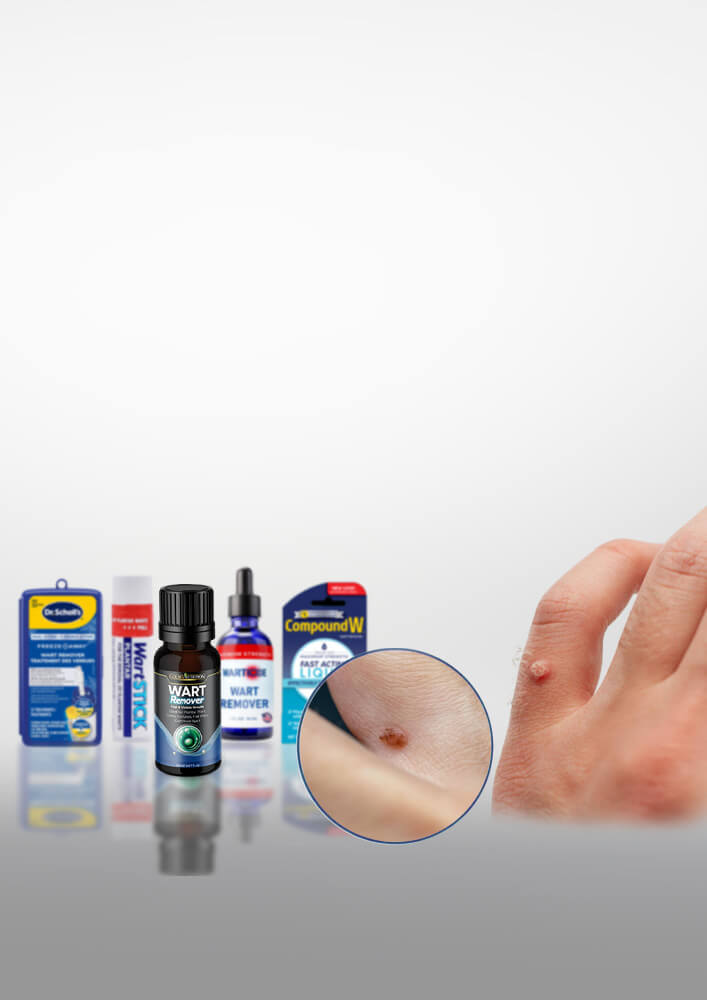
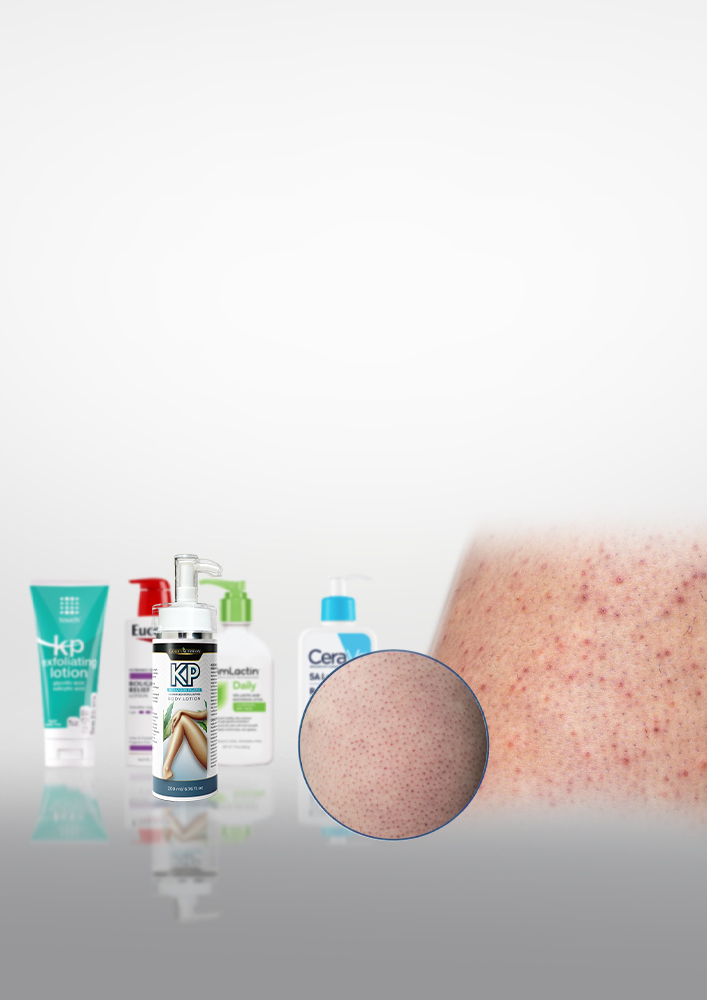
add the kp text and illustration

Changed region(s): [[0.0, 0.496, 1.0, 0.899]]

diff --git a/src/components/main/articleHeader/articleHeader.jsx b/src/components/main/articleHeader/articleHeader.jsx
@@ -22,13 +22,13 @@ const ArticleHeader = () => {
                 </Grid2>
                 <Grid2 xs={12} md={6} lg={5.3} sx={{ textAlign: { xs: "center", md: "left" }, paddingX: { xs: 3, md: 0 }, display: 'flex', alignItems: "center" }} >
                     <Box>
-                        <Typography fontFamily={"Oswald"} fontSize={32} fontWeight={700}>Top 5 Most Effective and Strongest Wart Removers of {myYear}</Typography>
+                        <Typography fontFamily={"Oswald"} fontSize={32} fontWeight={700}>Top 5 Most Effective Keratosis Pilaris Treatments of {myYear}</Typography>
                         <Typography fontSize={14} fontFamily={"Open Sans"} color={"#007BFF"}>Last updated on {myMonth} {myYear}</Typography>
                     </Box>
                 </Grid2>
                 <Grid2 xs={12} md={5} lg={3.3} sx={{ paddingX: "10px", display: { xs: "none", md: "block" } }}>
                     <Box>
-                        <QualityCard topic={` ${myYear}'s Top Rated Wart Remover Solution`} subTopic='Golden Nutrition Wart Remover' />
+                        <QualityCard topic={` ${myYear}'s Keratosis Pilaris Treatments`} subTopic='Golden Nutrition Keratosis Pilaris Lotion' />
                         <ProgressBar />
                     </Box>
 
@@ -45,17 +45,15 @@ const ArticleHeader = () => {
                 </Grid2>
                 <Grid2 xs={11} md={11} lg={8.4} sx={{ m: "auto" }}>
                     <Typography variant='body1' sx={{ mb: 1 }}>
-                    Warts are small, harmless skin growths emanating from the virus of HPV. The main bothering parts of warts would be their unsightly look and probable irritation. The most common areas for the outbreaks of warts would include hands, feet, genitals, and faces.
+                    Most people refer to <strong>Keratosis Pilaris</strong> as "chicken skin". It is among the most common conditions of the skin, often <strong>characterized by small, rough bumps</strong>. It may appear on the upper arms, thighs, or cheeks, or even extend to the buttocks. The bumps are brought about by a buildup of keratin, a protein that protects the skin from infections and other damaging substances. However, in individuals suffering from Keratosis Pilaris, keratin forms a plug that blocks hair follicles, thus leading to the formation of tiny, rough bumps.
                     </Typography>
                     <Typography variant='body1' sx={{ mb: 1 }}>
-                    Warts can appear in any age group. They are transferred through direct contact with the virus- from another person or from different parts of your own body.
+                    Though this is a harmless condition, it might be a bit irritating and damaging. The cause of this is not well known, though highly genetic. Most of the time, it occurs in families and may show its presence when the skin is dry, or under some disease, like eczema.
                     </Typography>
                     <Typography variant='body1'>
-                    Warts are of different types: common warts, plantar warts - around the feet area - and flat warts. Most of these can be treated with over-the-counter options, with salicylic acid treatments being particularly effective.
+                    Our goal has always been offering the most convenient conditions for our esteemed viewers to gain access to the most efficient product as fast as possible without wasting money on unnecessary products. Thus, our team of experts have gone through many products and narrowed them down to the top five while comparing each through texture, ingredients, fragrance, benefits and feedback.
                     </Typography>
-                    <Typography variant='body1'>
-                    This article meticulously analyzed <strong>five of the best-selling over the counter wart removal products</strong>. We are reviewing the <strong>concentration, ingredients, and methods of application</strong> to help make a meaningful choice among them.
-                    </Typography>
+                    
                 </Grid2>
                 <Grid2 xs={0} md={.5} lg={1.8}>
 

diff --git a/src/components/main/ChosenProduct/chosenProduct.jsx b/src/components/main/ChosenProduct/chosenProduct.jsx
@@ -42,12 +42,12 @@ const ChosenProduct = () => {
                 <>
                     <Box sx={{ display: { xs: 'none', md: 'block' }, position: "fixed", right: "15px", bottom: "10px", backgroundColor: "rgba(45, 57, 40, .5)", padding: 3, borderRadius: "15px", textAlign: 'center', zIndex: 3 }}>
                         <Typography variant='body1' fontFamily={"Poppins"} fontSize={"10px"} color={"#ffffff"} letterSpacing={2} textAlign={"left"}>Top Rated Product</Typography>
-                        <Typography variant='h2' fontSize={"17px"} fontFamily={"Oswald"} fontWeight={600} pb={2} color={'#ffffff'}>Golden Nutrition Wart Remover</Typography>
+                        <Typography variant='h2' fontSize={"17px"} fontFamily={"Oswald"} fontWeight={600} pb={2} color={'#ffffff'}>Golden Nutrition Keratosis Pilaris Lotion</Typography>
                         <CardMedia
                             component="img"
                             height="170"
                             image='goldennutrition.png'
-                            alt='Golden Nutrition Wart Remover'
+                            alt='Golden Nutrition Keratosis Pilaris Lotion'
                             sx={{
                                 
                                 margin: 'auto',
@@ -56,7 +56,7 @@ const ChosenProduct = () => {
 
                             }}
                         />
-                        <Link href={"https://goldennutrition.com/collections/goldennutrition/products/golden-nutrition-wart-remover"} target="__blank">
+                        <Link href={"https://goldennutrition.com/collections/all/products/golden-nutrition-keratosis-pilaris-lotion"} target="__blank">
                             <Button
                                 sx={{
                                     backgroundColor: "#ffffff",
@@ -71,13 +71,13 @@ const ChosenProduct = () => {
                         </Link>
                     </Box>
 
-                    <Link href={"https://goldennutrition.com/collections/goldennutrition/products/golden-nutrition-wart-remover"} target="__blank">
+                    <Link href={"https://goldennutrition.com/collections/all/products/golden-nutrition-keratosis-pilaris-lotion"} target="__blank">
                         <CardActionArea>
                             <Box sx={{ display: { xs: 'block', md: 'none' }, position: "fixed", right: "0px", bottom: "0px", left: "0px", backgroundColor: "rgba(45, 57, 40, .8)", padding: 2, borderRadius: "15px 15px 0 0 ", textAlign: 'center', zIndex: 3 }}>
                                 <CardMedia
                                     component="img"
                                     image='goldennutrition.png'
-                                    alt='Golden Nutrition Wart Remover'
+                                    alt='Golden Nutrition Keratosis Pilaris Lotion'
                                     sx={{
                                         width: "100px",
                                         margin: 'auto',

diff --git a/src/components/Nav/Appbar.jsx b/src/components/Nav/Appbar.jsx
@@ -30,10 +30,10 @@ import logoPhoto from '/src/assets/logo.webp';
 
 const drawerWidth = 240;
 const navItems = [
-  ["1", 'Home', "/wartremovalsolutions/"],
-  ["2", 'About', "/wartremovalsolutions/about"],
-  ["3", 'Blogs', "/wartremovalsolutions/blogs"],
-  ["4", 'Contact us', "/wartremovalsolutions/contactus"],
+  ["1", 'Home', "/bestkplotions/"],
+  ["2", 'About', "/bestkplotions/about"],
+  ["3", 'Blogs', "/bestkplotions/blogs"],
+  ["4", 'Contact us', "/bestkplotions/contactus"],
 ];
 
 function DrawerAppBar(props) {
@@ -154,11 +154,11 @@ function DrawerAppBar(props) {
       </nav>
       <Box component="main">
         <Routes>
-          <Route path='wartremovalsolutions/' element={<MainPage />} />
-          <Route path='wartremovalsolutions/about' element={<About />} />
-          <Route path='wartremovalsolutions/blogs' element={<Blogs />} />
-          <Route path='wartremovalsolutions/blogs/:title' element={<BlogContent />} />
-          <Route path='wartremovalsolutions/contactus' element={<Contactus />} />
+          <Route path='bestkplotions/' element={<MainPage />} />
+          <Route path='bestkplotions/about' element={<About />} />
+          <Route path='bestkplotions/blogs' element={<Blogs />} />
+          <Route path='bestkplotions/blogs/:title' element={<BlogContent />} />
+          <Route path='bestkplotions/contactus' element={<Contactus />} />
         </Routes>
 
         <Footer />

diff --git a/src/components/main/header/specialist.jsx b/src/components/main/header/specialist.jsx
@@ -39,8 +39,8 @@ export default function Specialist() {
                         <Typography sx={{ color: "#555" }}>
                             Senior Editor: <Box component="span" >Emily Carter</Box>
                         </Typography>
-                        <CustomLink href="/wartremovalsolutions/contactus">Contact me</CustomLink>
-                        <Tooltip title="I’m Emily Carter, a skincare enthusiast who reviews products focused on improving skin health. I provide honest insights to help people find effective treatments for their skincare needs, ensuring they make informed choices. My goal is to simplify the process of achieving healthier, radiant skin."><CustomLink href="/wartremovalsolutions/about">About me</CustomLink></Tooltip>
+                        <CustomLink href="/bestkplotions/contactus">Contact me</CustomLink>
+                        <Tooltip title="I’m Emily Carter, a skincare enthusiast who reviews products focused on improving skin health. I provide honest insights to help people find effective treatments for their skincare needs, ensuring they make informed choices. My goal is to simplify the process of achieving healthier, radiant skin."><CustomLink href="/bestkplotions/about">About me</CustomLink></Tooltip>
                     </Box>
 
                 </Box>

diff --git a/src/components/main/product/productCardHeader.jsx b/src/components/main/product/productCardHeader.jsx
@@ -4,11 +4,11 @@ import { Box, Typography } from '@mui/material';
 const ProductCardHeader = ({ product }) => {
     return (
         <>
-            <Typography color={"#383838"} fontFamily={"Oswald"} fontSize={"30px"} fontWeight={600} fontStyle={"italic"}>{product.id <= 1 ? "Best Wart Remover of 2024: Our Top Pick" : ""}</Typography>
+            <Typography color={"#383838"} fontFamily={"Oswald"} fontSize={"30px"} fontWeight={600} fontStyle={"italic"}>{product.id <= 1 ? "Best Keratosis Pilaris Lotion of 2024: Our Top Pick" : ""}</Typography>
             <Box sx={{ backgroundColor: product.ribonBackgroundColor }} marginTop={2}>
                 <Typography color={"#383838"} fontFamily={"Open Sans"} fontSize={"26px"} fontWeight={600} paddingX={2}>#{product.id} Rated: {product.title}</Typography>
             </Box>
-            <Typography variant='subtitle2' color={"#6C757D"} marginTop={1}>{product.id <= 1 ? "— Top Rated Wart Remover for 18 Months Straight" : ""}</Typography>
+            <Typography variant='subtitle2' color={"#6C757D"} marginTop={1}>{product.id <= 1 ? "— Top Rated Keratosis Pilaris Lotion for 18 Months Straight" : ""}</Typography>
         </>
 
     )

diff --git a/src/components/main/product/product.jsx b/src/components/main/product/product.jsx
@@ -19,7 +19,7 @@ const Product = () => {
             <ProductText product={jsonData.product_one} />
             <ProsandCons product="product_one" />
             <Box sx={{ display: "flex", justifyContent: "center", mt: "40px" }}>
-                <Link href={"https://goldennutrition.com/collections/goldennutrition/products/golden-nutrition-wart-remover"} target="__blank"> <Button variant="contained" sx={{ background: "linear-gradient(180deg, rgba(255, 255, 255, 0.50) 0%, rgba(255, 255, 255, 0.20) 49%, rgba(0, 0, 0, 0.15) 51%, rgba(0, 0, 0, 0.05) 100%), #00811d", fontSize: "1.1rem" }} >Checkout the Official Website »</Button></Link>
+                <Link href={"https://goldennutrition.com/collections/all/products/golden-nutrition-keratosis-pilaris-lotion"} target="__blank"> <Button variant="contained" sx={{ background: "linear-gradient(180deg, rgba(255, 255, 255, 0.50) 0%, rgba(255, 255, 255, 0.20) 49%, rgba(0, 0, 0, 0.15) 51%, rgba(0, 0, 0, 0.05) 100%), #00811d", fontSize: "1.1rem" }} >Checkout the Official Website »</Button></Link>
             </Box>
 
 

diff --git a/src/components/main/header/topText.jsx b/src/components/main/header/topText.jsx
@@ -9,10 +9,10 @@ const TopText = () => {
         WELCOME TO CONSUMER MAG
     </Typography>
     <Typography fontFamily={"Poppins"} color={"#2D3928"} fontSize={{ xs: 30, md: 36, lg: 42, xl: 47 }} fontWeight={600}>
-        Your Trusted Source for Wart Removal Solutions
+        Your Trusted Source for KP Treatments
     </Typography>
     <Typography fontFamily={"DM Sans"} color={"#3A3A3A"} fontSize={"17.6px"} fontWeight={400} sx={{ display: { xs: "none", md: "block" } }}>
-        Consumer Magazine is the #1 Website to discover expert-recommended wart removal treatments that work effectively.
+        Consumer Magazine is the #1 Website to discover expert-recommended Keratosis Pilaris Treatments that work effectively.
     </Typography>
     {/* <Button variant="contained" sx={{ marginTop: "15px", backgroundColor: "#5C645E" }} >MAKE APPOINTMENT</Button> */}
 </>

diff --git a/src/components/main/Blogs/singleBlog.jsx b/src/components/main/Blogs/singleBlog.jsx
@@ -10,7 +10,7 @@ export default function BlogCard({ title, description, writer, useAnotherImage, 
 
 
     return (
-        <Card sx={{ margin: "20px", display: "block", textDecoration: "none" }} component={Link} to={`/wartremovalsolutions/blogs/${encodeURIComponent(title.split(' ').join('_'))}`} >
+        <Card sx={{ margin: "20px", display: "block", textDecoration: "none" }} component={Link} to={`/bestkplotions/blogs/${encodeURIComponent(title.split(' ').join('_'))}`} >
             <CardActionArea>
                 <CardMedia
                     component="img"

diff --git a/vite.config.js b/vite.config.js
@@ -3,7 +3,7 @@ import react from '@vitejs/plugin-react'
 
 // https://vitejs.dev/config/
 export default defineConfig({
-  base: "https://theconsumermagazine.com/wartremovalsolutions/",
+  base: "https://theconsumermagazine.com/bestkplotions/",
   plugins: [react()],
 })
 
